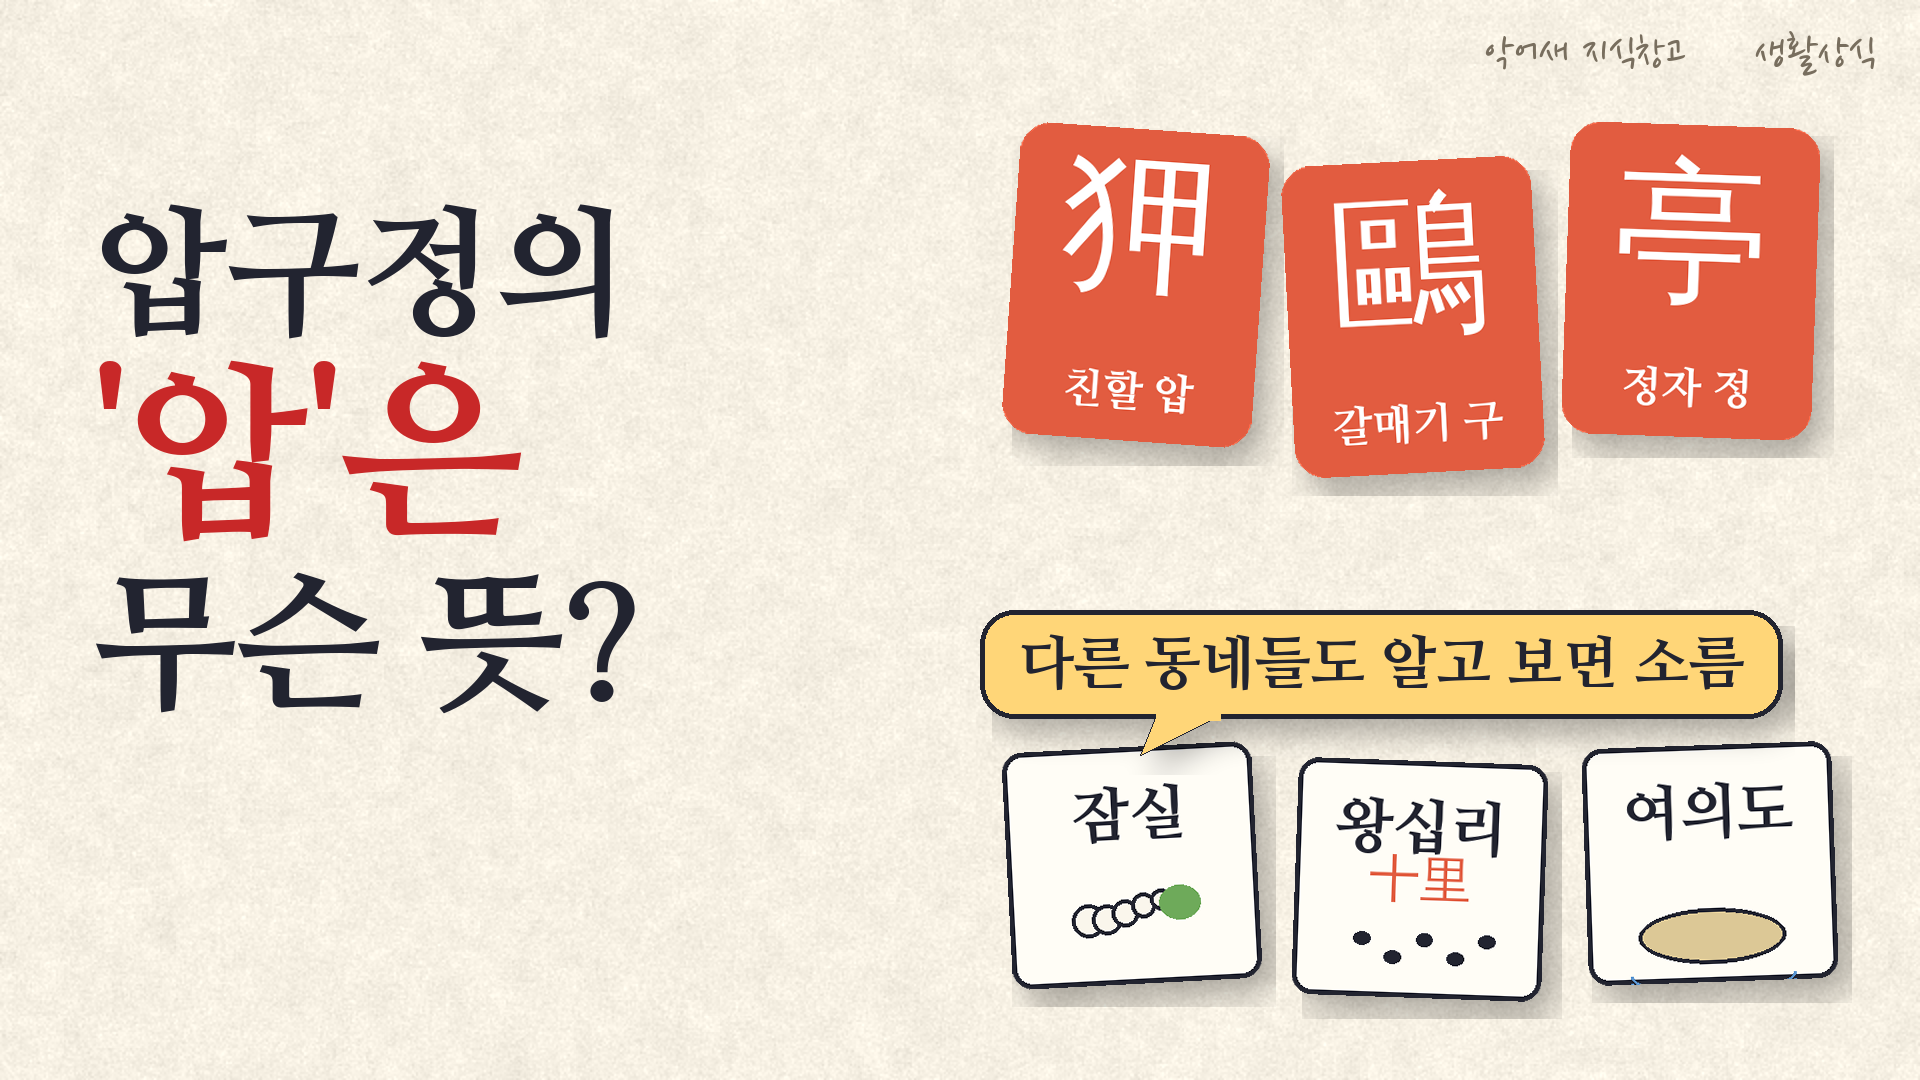
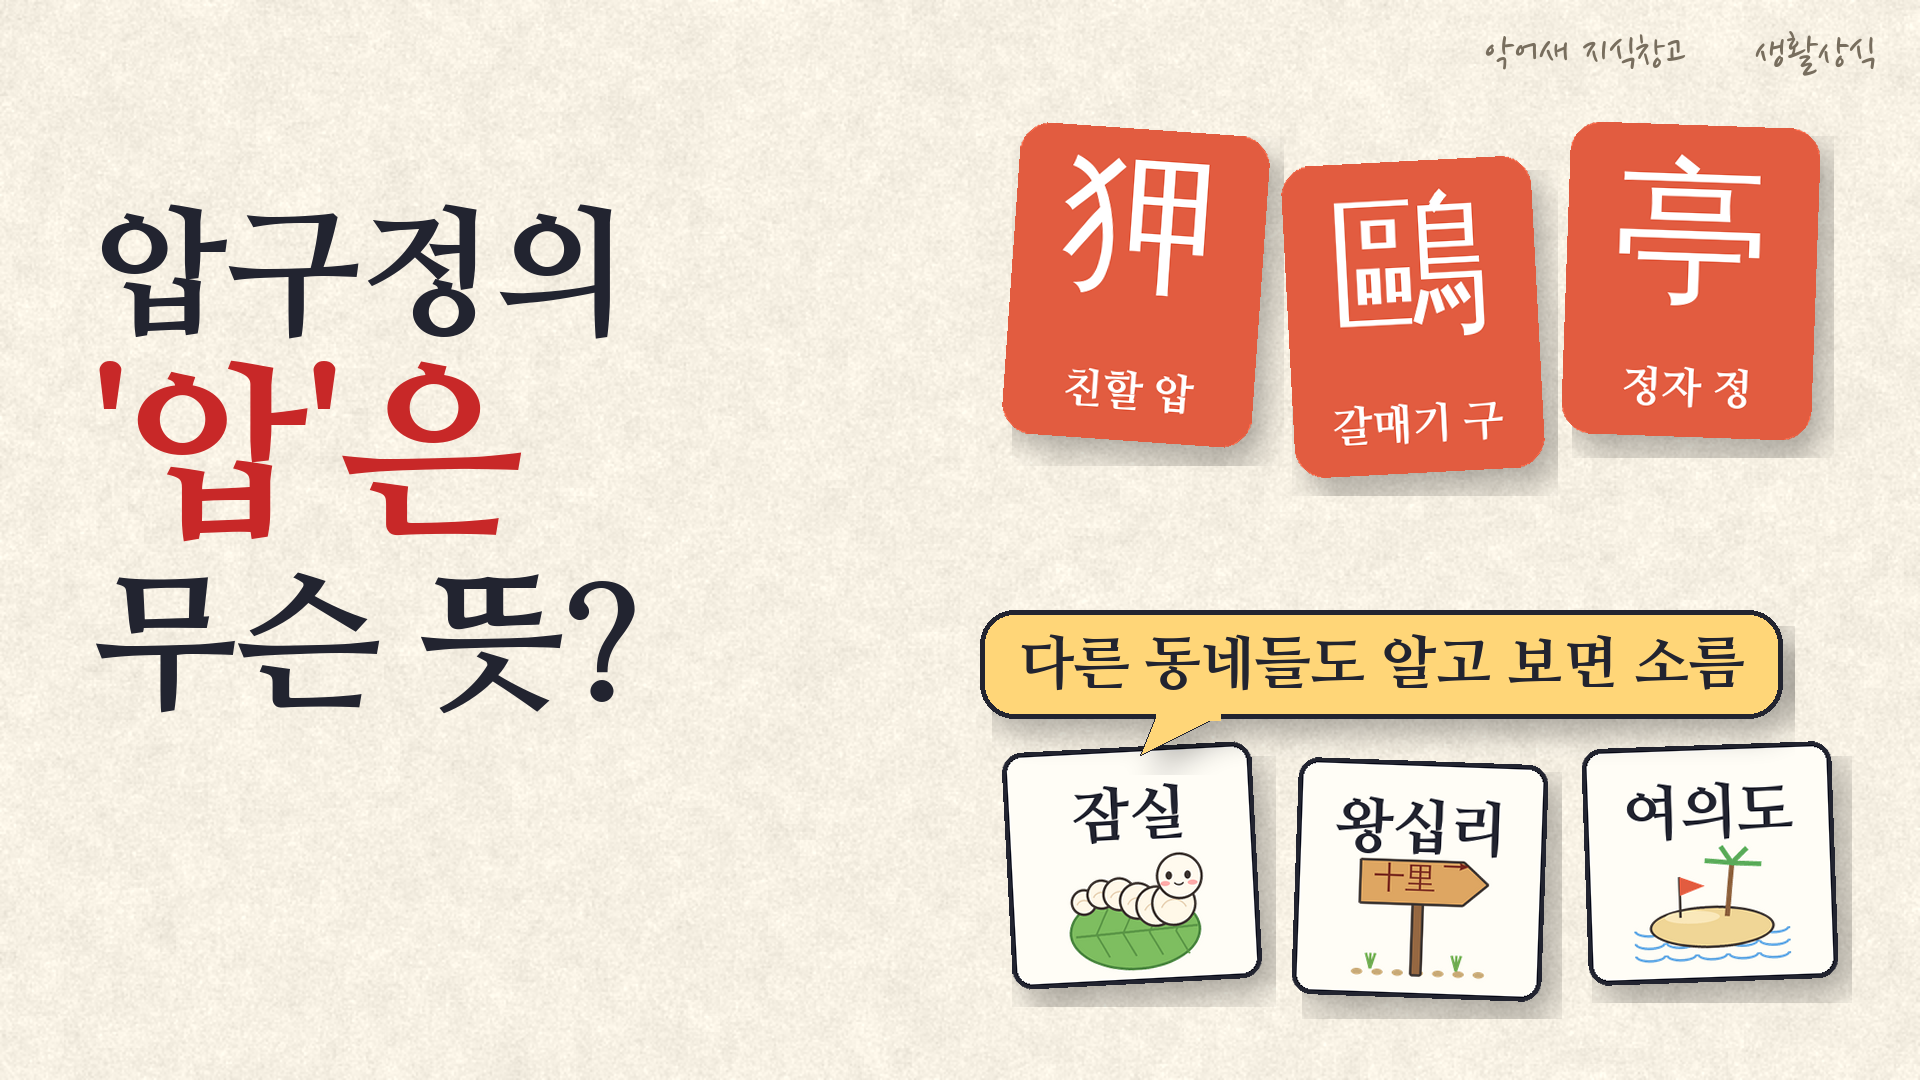
sci06 썸네일: 이름표 그림 고퀄 귀여운 버전
Claude-Session: https://claude.ai/code/session_01XzgYRsYwxnJKVwoBmLGtiR

Changed region(s): [[0.6875, 0.7944, 0.7812, 0.9167], [0.8438, 0.7944, 0.9375, 0.9167], [0.5312, 0.7944, 0.625, 0.9167]]

diff --git a/youtube/tools/thumb_names.py b/youtube/tools/thumb_names.py
@@ -108,14 +108,79 @@ def t04():   # 잠실 = 누에 방 + 한자 2장
     return f
 
 
+# ── 11/26 사용자: 이름표 그림 퀄리티 ↑ (색감 · 귀엽게) — 4배 크게 그려 줄여서 매끈하게 ──
+def _cute(kind, s):
+    S4 = s * 4
+    im = Image.new("RGBA", (S4, S4), (0, 0, 0, 0))
+    d = ImageDraw.Draw(im)
+    OL = (60, 52, 48, 255)
+    w = S4 // 60
+    if kind == "silkworm":
+        # 뽕잎
+        d.ellipse((S4 * .08, S4 * .45, S4 * .92, S4 * .95), fill=(126, 190, 96, 255), outline=(70, 130, 60, 255), width=w)
+        d.line((S4 * .12, S4 * .72, S4 * .9, S4 * .68), fill=(90, 150, 70, 255), width=w)
+        for k in range(4):
+            x = S4 * (.25 + k * .17)
+            d.line((x, S4 * .71, x + S4 * .08, S4 * .55), fill=(90, 150, 70, 255), width=w // 2 + 2)
+            d.line((x, S4 * .71, x + S4 * .08, S4 * .86), fill=(90, 150, 70, 255), width=w // 2 + 2)
+        # 누에 몸통(뒤→앞)
+        for i in range(6):
+            r = S4 * (.085 + .012 * i)
+            cx = S4 * (.18 + .115 * i)
+            cy = S4 * (.5 - .05 * __import__("math").sin(i * 1.1))
+            d.ellipse((cx - r, cy - r, cx + r, cy + r), fill=(255, 248, 232, 255), outline=OL, width=w)
+            d.arc((cx - r * .6, cy - r * .2, cx + r * .6, cy + r * .9), 200, 340, fill=(232, 210, 180, 255), width=w // 2 + 1)
+        hx, hy, hr = S4 * .8, S4 * .36, S4 * .15
+        d.ellipse((hx - hr, hy - hr, hx + hr, hy + hr), fill=(255, 250, 238, 255), outline=OL, width=w)
+        for ex in (-.45, .35):
+            d.ellipse((hx + hr * ex - S4 * .02, hy - S4 * .03, hx + hr * ex + S4 * .02, hy + S4 * .02), fill=OL)
+        for ex in (-.62, .55):
+            d.ellipse((hx + hr * ex - S4 * .03, hy + S4 * .03, hx + hr * ex + S4 * .03, hy + S4 * .06), fill=(255, 150, 150, 200))
+        d.arc((hx - S4 * .04, hy + S4 * .01, hx + S4 * .03, hy + S4 * .06), 20, 160, fill=OL, width=w // 2 + 1)
+    elif kind == "sign":
+        # 갈림길 나무 표지판 + 점선 길
+        for k in range(7):
+            x = S4 * (.08 + k * .13)
+            d.ellipse((x, S4 * .86, x + S4 * .07, S4 * .9), fill=(200, 170, 120, 255))
+        d.rounded_rectangle((S4 * .45, S4 * .3, S4 * .53, S4 * .9), S4 // 50, fill=(150, 104, 66, 255), outline=OL, width=w)
+        d.polygon([(S4 * .12, S4 * .16), (S4 * .78, S4 * .16), (S4 * .94, S4 * .3), (S4 * .78, S4 * .44), (S4 * .12, S4 * .44)],
+                  fill=(222, 166, 98, 255), outline=OL)
+        d.line([(S4 * .12, S4 * .16), (S4 * .78, S4 * .16), (S4 * .94, S4 * .3), (S4 * .78, S4 * .44), (S4 * .12, S4 * .44), (S4 * .12, S4 * .16)], fill=OL, width=w)
+        t = _hz("十里", int(S4 * .2), (120, 40, 30))
+        im.alpha_composite(t, (int(S4 * .2), int(S4 * .17)))
+        a = E._ink("→", MJ, int(S4 * .18), (120, 40, 30))
+        im.alpha_composite(a, (int(S4 * .64), int(S4 * .16)))
+        # 작은 풀
+        for x in (.2, .75):
+            for k in (-1, 0, 1):
+                d.line((S4 * x, S4 * .86, S4 * (x + .03 * k), S4 * .76), fill=(110, 170, 80, 255), width=w)
+    elif kind == "island":
+        for k in range(3):
+            y = S4 * (.7 + k * .08)
+            for x in range(0, S4, S4 // 5):
+                d.arc((x, y - S4 * .04, x + S4 // 5, y + S4 * .04), 0, 180, fill=(90, 160, 220, 255), width=w)
+        d.ellipse((S4 * .1, S4 * .55, S4 * .9, S4 * .82), fill=(240, 214, 150, 255), outline=OL, width=w)
+        d.ellipse((S4 * .2, S4 * .58, S4 * .55, S4 * .66), fill=(250, 232, 186, 255))
+        # 야자수
+        d.line((S4 * .6, S4 * .62, S4 * .64, S4 * .28), fill=(140, 96, 60, 255), width=w * 2)
+        for ang in (-150, -110, -60, -20):
+            import math as _m
+            x2 = S4 * .64 + S4 * .2 * _m.cos(_m.radians(ang)); y2 = S4 * .28 + S4 * .2 * _m.sin(_m.radians(ang)) + S4 * .08
+            d.line((S4 * .64, S4 * .28, x2, y2), fill=(90, 170, 90, 255), width=w * 2)
+        # 작은 깃발 '너'
+        d.line((S4 * .3, S4 * .62, S4 * .3, S4 * .36), fill=OL, width=w)
+        d.polygon([(S4 * .3, S4 * .36), (S4 * .46, S4 * .42), (S4 * .3, S4 * .48)], fill=(226, 92, 64, 255))
+    return im.resize((s, s), Image.LANCZOS)
+
+
 def mini(name, s=230, ic=None):
     c = Image.new("RGBA", (s, int(s * 0.95)), (0, 0, 0, 0))
     ImageDraw.Draw(c).rounded_rectangle((0, 0, s - 1, c.height - 1), 20, fill=(255, 253, 246, 255), outline=INK + (255,), width=5)
     n = E._ink(name, MJ, int(s * 0.24), INK)
     c.alpha_composite(n, ((s - n.width) // 2, int(c.height * 0.14)))
     if ic:   # 11/26 사용자: '?' 대신 그림 힌트
-        g = icon(ic, int(c.height * 0.78), INK, ORG, 0.3)
-        c.alpha_composite(g, ((s - g.width) // 2, int(c.height * 0.3)))
+        g = _cute(ic, int(c.height * 0.66))
+        c.alpha_composite(g, ((s - g.width) // 2, int(c.height * 0.32)))
     else:
         q = E._ink("?", MJ, int(s * 0.26), ORG)
         c.alpha_composite(q, ((s - q.width) // 2, int(c.height * 0.5)))
@@ -139,7 +204,7 @@ def t05():   # T01 + 다른 동네도(말풍선 + 미니 이름표 3장)
     for i, (h, ko) in enumerate((("狎", "친할 압"), ("鷗", "갈매기 구"), ("亭", "정자 정"))):
         shadow(f, hanja_card(h, ko, 250), (1000 + i * 280, 120 + (i % 2) * 34), rot=(-4, 3, -2)[i])
     headline(f, [("압구정의", 140, INK), ("'압'은", 190, RED), ("무슨 뜻?", 150, INK)], 90, 200)
-    for i, (n, ic) in enumerate((("잠실", "silkworm"), ("왕십리", "walk"), ("여의도", "island"))):
+    for i, (n, ic) in enumerate((("잠실", "silkworm"), ("왕십리", "sign"), ("여의도", "island"))):
         shadow(f, mini(n, 250, ic), (1000 + i * 290, 740 + (i % 2) * 16), rot=(3, -2, 2)[i])
     shadow(f, bubble("다른 동네들도 알고 보면 소름", 58), (980, 610))
     return f
